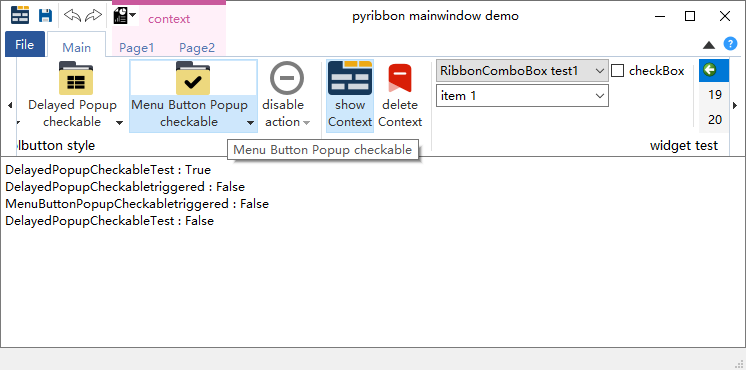
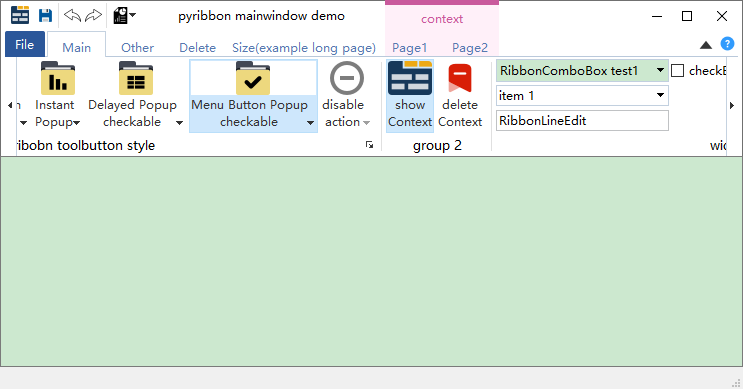
pyqt: fix multiple pages cannot work
use defaultWidget instead of requestWidget for QWidgetAction.

diff --git a/pyqt/demo/RibbonDemo.py b/pyqt/demo/RibbonDemo.py
@@ -42,39 +42,35 @@ class MainWindow(RibbonWindow):
         pageMain.setObjectName("pageMain")
         self.createPageMain(pageMain)
 
-        # FIXME: multiple pages cannot work
+        pageOther = RibbonPage(ribbon)
+        pageOther.setPageName('Other')
+        pageOther.setObjectName('pageOther')
+        ribbon.addPage(pageOther)
+        self.createPageOther(pageOther)
 
-        # pageOther = RibbonPage(ribbon)
-        # pageOther.setPageName('Other')
-        # pageOther.setObjectName('pageOther')
-        # ribbon.addPage(pageOther)
-        # # self.createPageOther(pageOther)
+        pageDelete = RibbonPage()
+        pageDelete.setPageName('Delete')
+        pageDelete.setObjectName('pageDelete')
+        ribbon.addPage(pageDelete)
+        self.createPageDelete(pageDelete)
 
-        # pageDelete = RibbonPage()
-        # pageDelete.setPageName('Delete')
-        # pageDelete.setObjectName('pageDelete')
-        # ribbon.addPage(pageDelete)
-        # # self.createPageDelete(pageDelete)
-        #
-        # pageSize = RibbonPage()
-        # pageSize.setPageName("Size(example long page)")
-        # pageSize.setObjectName("pageSize")
-        # ribbon.addPage(pageSize)
-        # # self.createPageSize(pageSize)
+        pageSize = RibbonPage()
+        pageSize.setPageName("Size(example long page)")
+        pageSize.setObjectName("pageSize")
+        ribbon.addPage(pageSize)
+        self.createPageSize(pageSize)
 
-        # # pageContext created after page
-        # self.createPageContext1()
-        # self.createPageContext2()
+        # pageContext created after page
+        self.createPageContext1()
+        self.createPageContext2()
 
         quickAccessBar = ribbon.quickAccessBar()
         self.createQuickAccessBar(quickAccessBar)
         rightBar = ribbon.rightButtonGroup()
         self.createRightButtonGroup(rightBar)
 
-        # ribbon.raisePage(pageMain)
-
         self.setMinimumWidth(500)
-        # self.showMaximized()
+        self.showMaximized()
         self.setWindowIcon(QIcon('res/logo.png'))
 
     def createPageMain(self, page: RibbonPage):

diff --git a/pyqt/PyRibbon/QxRibbonBar.py b/pyqt/PyRibbon/QxRibbonBar.py
@@ -74,7 +74,6 @@ class RibbonBar(QMenuBar):
         super().__init__(parent)
         self.m_iconRightBorderPosition: int = 1
         self.m_minimumPageButton: RibbonControlButton = None
-        self.m_minimumPageAction: QAction = None
         self.m_rightButtonGroup: RibbonButtonGroup = None
         self.m_ribbonStyle = RibbonBar.OfficeStyle
         self.m_lastShowStyle = RibbonBar.OfficeStyle
@@ -379,10 +378,7 @@ class RibbonBar(QMenuBar):
     def showMinimumButton(self, shown: bool = True):
         if shown:
             self.activeRightButtonGroup()
-            """ FIXME: add m_minimumPageAction to fix the following error:
-                "RuntimeError: wrapped C/C++ object of type RibbonControlButton has been deleted"
-            see also the actionEvent of RibbonButtonGroup """
-            if not self.m_minimumPageAction:
+            if not self.m_minimumPageButton:
                 self.m_minimumPageButton = RibbonControlButton(self)
                 self.m_minimumPageButton.setAutoRaise(False)
                 self.m_minimumPageButton.setObjectName('RibbonBarHideGroupButton')
@@ -398,12 +394,13 @@ class RibbonBar(QMenuBar):
                                                              QStyle.SP_TitleBarShadeButton, None))
                 ))
                 self.m_minimumPageButton.setDefaultAction(action)
-                self.m_minimumPageAction = self.m_rightButtonGroup.addWidget(self.m_minimumPageButton)
+                self.m_rightButtonGroup.addWidget(self.m_minimumPageButton)
                 self.update()
+            else:
+                self.m_minimumPageButton.show()
         else:
-            if self.m_minimumPageAction:
-                self.m_rightButtonGroup.hideWidget(self.m_minimumPageAction)
-                self.m_minimumPageAction = None
+            if self.m_minimumPageButton:
+                self.m_minimumPageButton.hide()
         QApplication.sendEvent(self, QResizeEvent(self.size(), self.size()))
 
     def tabBarHeight(self) -> int:

diff --git a/pyqt/PyRibbon/QxRibbonButtonGroup.py b/pyqt/PyRibbon/QxRibbonButtonGroup.py
@@ -119,9 +119,13 @@ class RibbonButtonGroup(QFrame):
                 item.action.setParent(self)
                 widgetAction: QWidgetAction = item.action
                 """here widgetAction.requestWidget(self) is not widgetAction.defaultWidget()
-                if using requestWidget will cause defaultWidget was deleted by python garbage collect"""
-                item.widget = widgetAction.requestWidget(self)
+                if using requestWidget will cause defaultWidget was deleted by python garbage collect
+                see QWidgetAction source code, using defaultWidget() and set widget parent as self.
+                """
+                # item.widget = widgetAction.requestWidget(self)
+                item.widget = widgetAction.defaultWidget()
                 if item.widget:
+                    item.widget.setParent(self)
                     item.widget.setAttribute(Qt.WA_LayoutUsesWidgetRect)
                     item.widget.show()
                     item.customWidget = True

diff --git a/pyqt/PyRibbon/QxRibbonGroup.py b/pyqt/PyRibbon/QxRibbonGroup.py
@@ -496,8 +496,10 @@ class RibbonGroupLayout(QLayout):
             return None
         if isinstance(action, QWidgetAction):
             widgetAction: QWidgetAction = action
-            widget = widgetAction.requestWidget(group)
+            # widget = widgetAction.requestWidget(group)
+            widget = widgetAction.defaultWidget()
             if widget:
+                widget.setParent(group)
                 widget.setAttribute(Qt.WA_LayoutUsesWidgetRect)
                 customWidget = True
         elif action.isSeparator():
